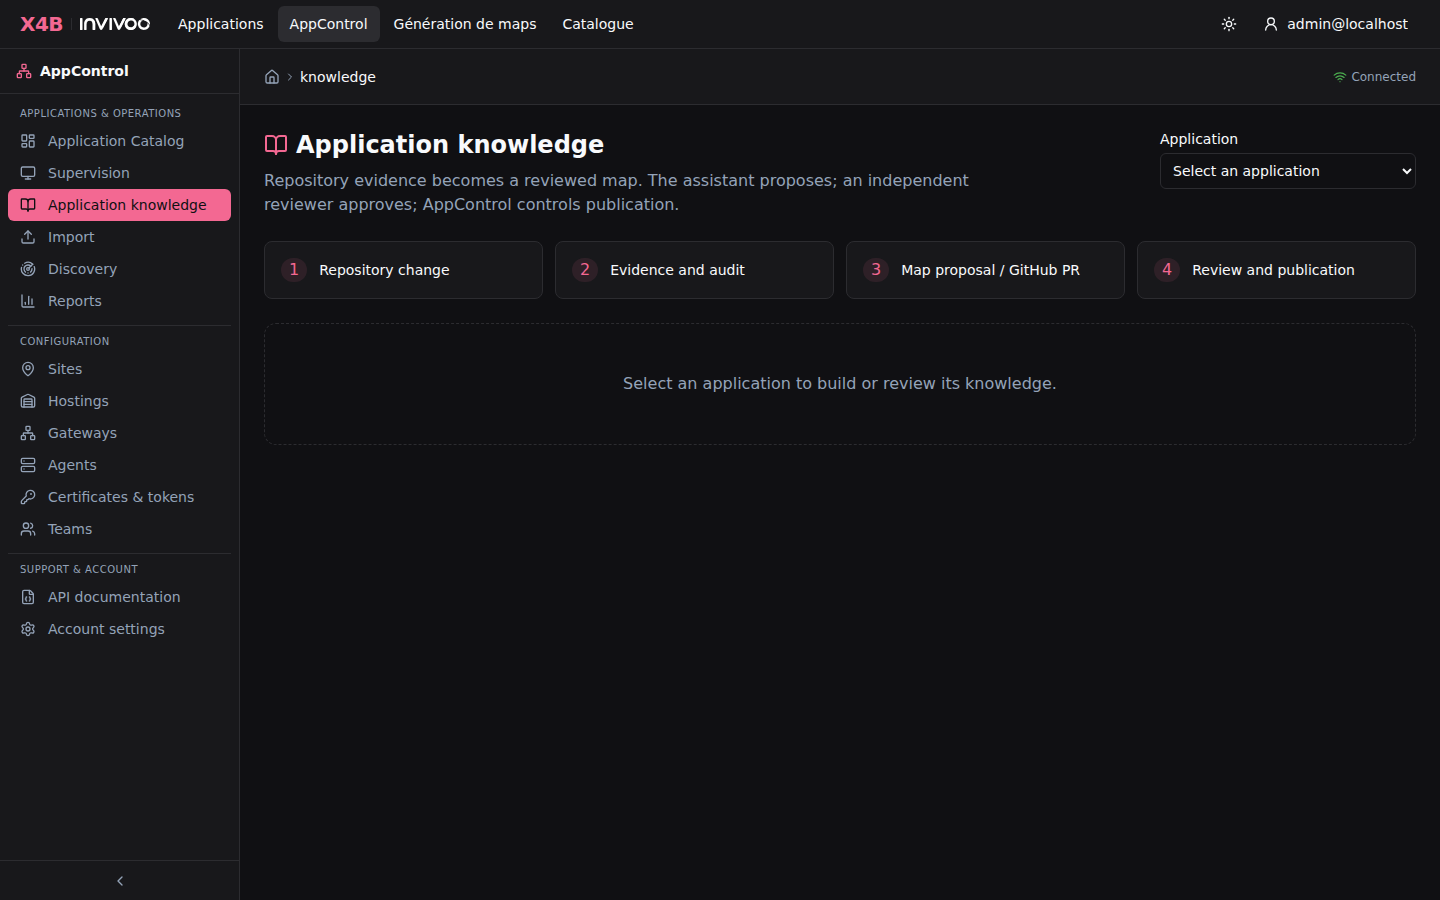
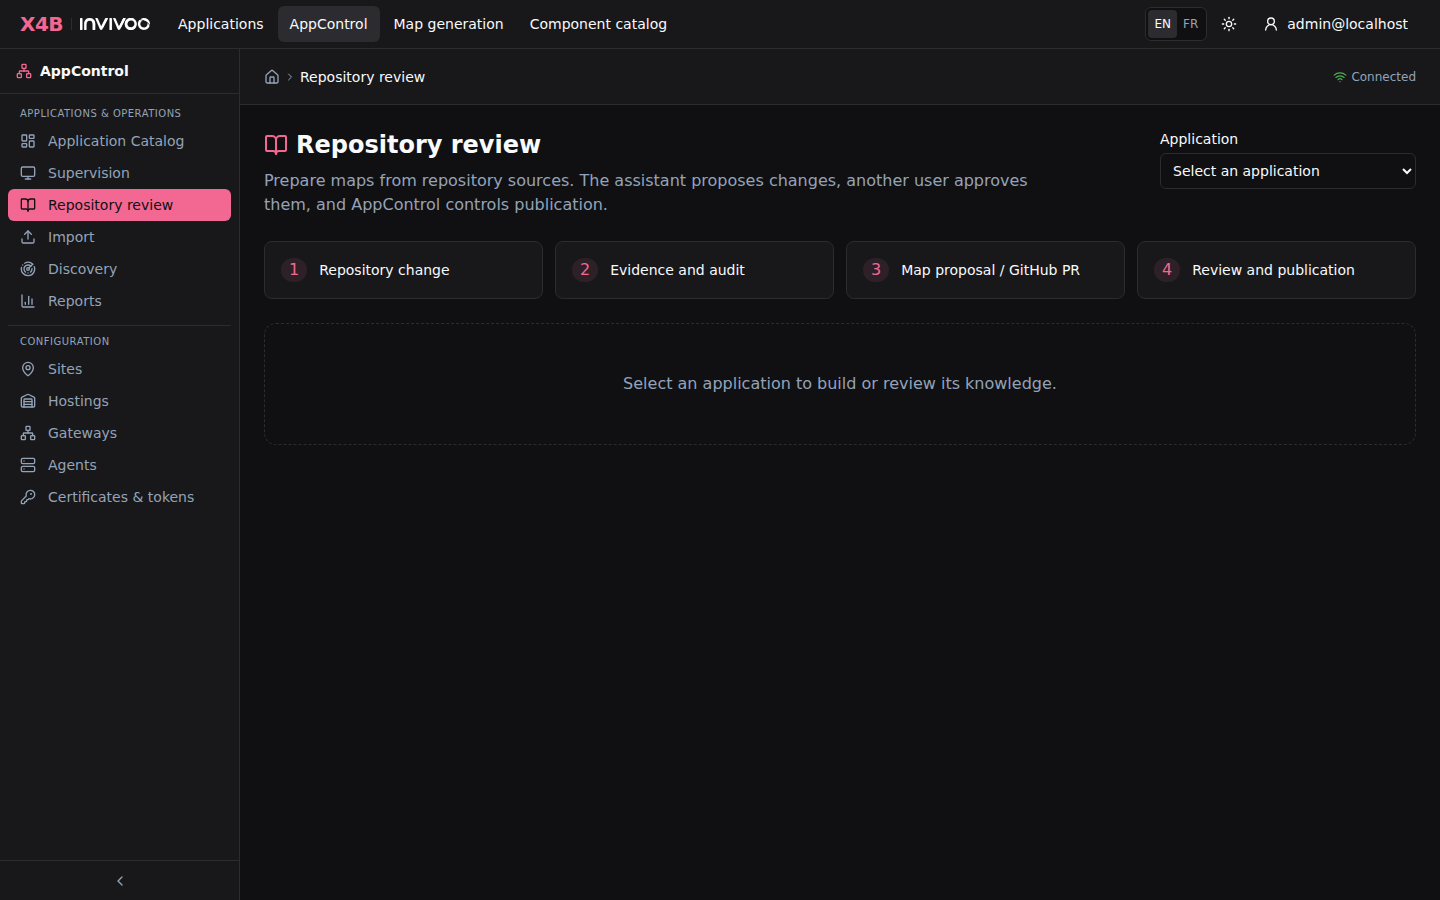
Release v1.24.9 — docs, scripts, examples

diff --git a/docs/X4B-PLATEFORME.fr.md b/docs/X4B-PLATEFORME.fr.md
@@ -25,12 +25,13 @@ Pour un POC avec un portail documentaire, créer un compte administrateur de rev
 
 | Route du portail | Appel serveur X4B/AppControl |
 | --- | --- |
-| `GET /x4b/session` | `POST /api/v1/x4b/session` retourne le compte et ses entrées de navigation. |
+| `GET /x4b/session` | `POST /api/v1/x4b/session` retourne le compte, ses entrées de navigation et la préférence de langue. |
+| `PUT /x4b/settings` | Le bandeau envoie `{"language":"fr"}` ou `{"language":"en"}`. Le portail vérifie l’origine et la session, puis appelle `POST /api/v1/x4b/session/settings` avec `client_id`, `client_secret`, `session_token` et `language`. Transmettre la réponse `{"language":"fr"}` ou `{"language":"en"}`. |
 | `POST /x4b/logout` | `POST /api/v1/x4b/session/revoke` révoque la session partagée, puis le portail efface sa session locale. Vérifier l’origine du POST. |
 | `GET /fiches/<id>/status` | `POST /api/v1/x4b/embedded/status` avec `credentials` et `source_id`. Renvoie l’état agrégé, la dernière observation et l’indicateur de fraîcheur. Une map absente ou non autorisée donne `404`. |
 | `POST /fiches/<id>/simulation` | `POST /api/v1/x4b/embedded/simulation` avec les mêmes champs et éventuellement `simulation_site_id`. Affecter la réponse à la propriété JavaScript `session` du composant map. Vérifier l’origine du POST. |
 
-`GET /x4b/session` renvoie au bandeau les champs `user` et `modules` issus de
+`GET /x4b/session` renvoie au bandeau les champs `user`, `modules` et `settings` issus de
 la réponse serveur X4B. Chaque entrée de `modules` contient `key`, `name` et
 `entry_url`. X4B calcule la liste selon les droits du compte connecté. Le
 bandeau ajoute **Catalogue** lorsque **AppControl** figure dans cette liste.
@@ -47,10 +48,45 @@ L’hôte de référence `demo-rebuild/embedded/x4b_host.py` contient deux fiche
 
 Si le certificat de X4B est signé par une autorité interne, configurer `X4B_CA_FILE` avec la chaîne de confiance PEM sur le serveur de l’hôte de référence. Le navigateur doit lui aussi faire confiance à l’autorité utilisée par les deux sites.
 
+### Langue du bandeau et de l’application hôte
+
+Le bandeau utilise la préférence `settings.language` du compte X4B dès qu’il
+reçoit la session. En l’absence de préférence, il utilise la langue déclarée
+dans l’attribut `lang` de la page hôte si elle est prise en charge, puis celle du
+navigateur. Le sélecteur change la langue du bandeau et enregistre le choix sur le
+compte pour les applications raccordées. Si la route locale porte un autre nom,
+indiquez son chemin de même origine dans l’attribut `settings-endpoint` de
+`<x4b-shell>`. Les identifiants et secrets de l’échange restent côté serveur.
+
+L’application hôte peut réutiliser son mécanisme de traduction en écoutant
+l’événement `x4b-language-change`. Le bandeau fournit `event.detail.language`
+à l’initialisation et lors des changements. La propriété en lecture seule
+`shell.language` permet de récupérer la valeur si le script est chargé après
+l’initialisation. Appliquez la valeur à vos propres traductions, puis mettez à
+jour la langue déclarée pour la page.
+
+```js
+const shell = document.querySelector('x4b-shell');
+function applyLanguage(language) {
+  setApplicationLanguage(language);
+  document.documentElement.lang = language;
+}
+shell?.addEventListener('x4b-language-change', (event) => {
+  applyLanguage(event.detail.language);
+});
+if (shell?.language) applyLanguage(shell.language);
+```
+
 ## Catalogue complet et génération
 
 Le catalogue appartient à AppControl. Les entrées acceptent `match_terms` (ou `keys` sur les exports existants). Le kit Windows envoie les entrées par lots. Chaque lot respecte les limites de la requête, sans plafond total sur le catalogue configuré. Pour enrichir une entrée déjà importée, utiliser le mode `upsert` de l’API catalogue avec une prévisualisation `dry_run` puis l’`expected_digest` obtenu. Le kit Windows conserve le mode ajout pour préserver les entrées existantes.
 
 Quand le catalogue est renseigné, X4B demande d’abord à l’IA du client les termes observés dans le document. X4B recherche ces termes dans toutes les entrées du catalogue. Le second appel utilise la même révision du document et reçoit les candidats par composant. Les commandes et variables du catalogue ne sont pas envoyées au moteur de génération. La revue indique les rapprochements ambigus et inconnus, avec les candidats trouvés. Ces propositions nécessitent une confirmation individuelle. Une modification du catalogue rend caduques les propositions fondées sur son état antérieur.
+
+Pour les ordonnanceurs, indiquez dans les sources le produit et le rôle précis de la brique, par exemple **Control-M Agent**. Le rapprochement reconnaît aussi les variantes du nom de produit, comme **VTOM** et **Visual TOM**. Lorsque le document nomme le produit et que le catalogue ne contient qu’une variante, X4B peut la suggérer pour confirmation. Le rôle d’ordonnancement aide à organiser le graphe. Les liens restent fondés sur les flux et prérequis documentés.
+
+Dans l’aperçu, utilisez **Organiser automatiquement** pour disposer les prérequis et les composants qui en dépendent. Vous pouvez aussi déplacer les composants à la souris et enregistrer leur disposition dans la proposition avant de la publier.
+
+Lors de la première publication, le site primaire sert de site par défaut pour les composants dont le site reste à déterminer. L’assistant propose un agent lorsqu’il trouve une correspondance unique ou un seul agent éligible. Si vous choisissez un site secondaire, renseignez les agents de chaque composant sur les deux sites. La publication enregistre un profil de secours inactif. Les commandes et les conditions de bascule restent à vérifier avant utilisation.
 
 Le contrat [Knowledge Engine](KNOWLEDGE-ENGINE-CONNECTOR.fr.md) est conservé. Le point de terminaison `prompt-executions` doit pouvoir appliquer le prompt reçu, y compris quand le résultat demandé est un inventaire de composants. Le moteur de génération reste celui du client.

diff --git a/docs/security-reports/SECURITY-ASSURANCE-REPORT-v1.24.9.md b/docs/security-reports/SECURITY-ASSURANCE-REPORT-v1.24.9.md
@@ -1,8 +1,8 @@
-# AppControl v1.24.7 — release qualification report
+# AppControl v1.24.9 — release qualification report
 
-Generated: 2026-11-16T12:20:22.415339+00:00
-Source commit: `155019de73a048cefd372f5c83e4120ae67120b3`
-Release: https://github.com/xcomponent/appcontrol-release/releases/tag/vv1.24.7
+Generated: 2026-11-17T06:10:26.527695+00:00
+Source commit: `4ae2617e77fc871fc8d86d49df0d37c4c22455cc`
+Release: https://github.com/xcomponent/appcontrol-release/releases/tag/vv1.24.9
 
 ## Scope and result
 
@@ -13,22 +13,22 @@ The OpenShift client kit targets Linux amd64. Its five images are backend, front
 ## Vulnerability scans and inventories
 
 Trivy 0.76.1 scans OS and application packages at all severities (UNKNOWN, LOW, MEDIUM, HIGH, CRITICAL), including unfixed advisories. Image scans use comprehensive detection. A scan with missing inventory, known vulnerabilities or suppressed findings fails the release. Each image has its own CycloneDX SBOM. The locked Rust and npm dependencies have an additional SBOM including development dependencies.
-Source vulnerability database updated: 2026-11-16T07:10:39.763774809Z. Per-image scanner metadata records the database used for that scan.
+Source vulnerability database updated: 2026-11-16T18:50:18.311537747Z. Per-image scanner metadata records the database used for that scan.
 
 | Image | Qualified image and digest | Findings | Scan timestamp |
 |---|---|---:|---|
-| backend | `appcontrol-backend@sha256:e0348c0b47fca6ee60fc1dea6bbc41eaabc7dc88c6ecc1be499914d60267133b` | 0 | 2026-11-16T11:43:01.252044693Z |
-| frontend | `appcontrol-frontend@sha256:dd120dff4b4c6def1fba5109bb2d8a1462de8f248285e98e2d2696dbe318d3e8` | 0 | 2026-11-16T11:43:04.288680918Z |
-| gateway | `appcontrol-gateway@sha256:aa3e5898dc4dbf0c6b9d5fe7d6d1c17b3277be73686e8264c5ea8b3e5deb4f0d` | 0 | 2026-11-16T11:42:59.722272987Z |
-| agent | `appcontrol-agent@sha256:248bf836493e414a5f646a1d5eb6d0033c858841db23020ba504b756548aa6f6` | 0 | 2026-11-16T11:43:02.212637886Z |
-| postgresql | `appcontrol-postgresql@sha256:ccfdd0dbfda349b0b278b183cedf00465e8d920db19299a15bd0e4c7159af8b6` | 0 | 2026-11-16T11:42:58.489576077Z |
-| init-certs | `appcontrol-init-certs@sha256:e85367e306b3d997134f2579b79c7798dfc35fd2c08dd0aa08c9c8f0965a35d0` | 0 | 2026-11-16T11:42:51.859934482Z |
-| azure-gateway | `appcontrol-azure-gateway@sha256:f8984b1dcf43c6ff1a6e3ee7bb7058f38052c547df5a1326cc7a6ba54a16e354` | 0 | 2026-11-16T11:43:03.056220367Z |
+| backend | `appcontrol-backend@sha256:37a8cb129280a96d1decdee95d0c0c7fa2a21f5a974e465269aecc7db539cd2a` | 0 | 2026-11-17T06:02:59.080344292Z |
+| frontend | `appcontrol-frontend@sha256:bd9059138acc90ec83bf2100a4f35e2eac5b5c03105f1731198ab1b79f80c1e6` | 0 | 2026-11-17T06:02:55.862886585Z |
+| gateway | `appcontrol-gateway@sha256:fde95c7901daf375b2806ee61c2cedc572fba339b38f01e356f9b5abc188103e` | 0 | 2026-11-17T06:02:56.375193917Z |
+| agent | `appcontrol-agent@sha256:e3f9a43710a9678b05f01c7eb778e586eabfa2ae40315daacdce2bed71c43054` | 0 | 2026-11-17T06:02:57.527351363Z |
+| postgresql | `appcontrol-postgresql@sha256:c1f63ec5f6b4e3a1ff76e55dc04cfa420081440ce44063b40438a7ba48bac871` | 0 | 2026-11-17T06:03:04.466524296Z |
+| init-certs | `appcontrol-init-certs@sha256:2094ea60650ed67cf16e1835103a0510f8af38c849a1ca02103bb237fd18037e` | 0 | 2026-11-17T06:02:57.996814052Z |
+| azure-gateway | `appcontrol-azure-gateway@sha256:8e50d4e20b22cf58b5fcd2e06c0b6b11f5228321685524d34ac5ac36a6f90e2a` | 0 | 2026-11-17T06:03:00.021609702Z |
 
 | Dependency scope | Inputs | Findings | Scan timestamp |
 |---|---|---:|---|
-| Production dependencies | Cargo.lock + frontend/package-lock.json | 0 | 2026-11-16T11:24:27.869708815Z |
-| Production and development dependencies | Cargo.lock + frontend/package-lock.json | 0 | 2026-11-16T11:24:32.62169278Z |
+| Production dependencies | Cargo.lock + frontend/package-lock.json | 0 | 2026-11-16T23:29:31.289585482Z |
+| Production and development dependencies | Cargo.lock + frontend/package-lock.json | 0 | 2026-11-16T23:29:44.555999993Z |
 
 RustSec: zero vulnerability advisories. Informational warnings, if any, remain in rustsec.json and are not reclassified as vulnerabilities.
 RustSec warning categories: unmaintained: 2, unsound: 1, yanked: 1.

diff --git a/docs/qualification/INSTALLATION-WINDOWS.fr.md b/docs/qualification/INSTALLATION-WINDOWS.fr.md
@@ -8,7 +8,7 @@ léger ne contient **aucune image ni aucun exécutable**. Il n’installe pas `o
 ne modifie pas le PATH du poste. Aucun Helm, Docker, Python, WSL, OpenSSL ou outil
 de transfert d’images n’est nécessaire sur le poste client.
 
-Produit : **AppControl 1.24.7**. Paquet : **Windows léger 1.24.7-1**.
+Produit : **AppControl 1.24.9**. Paquet : **Windows léger 1.24.9-1**.
 
 **AppControl est le module d’exploitation de X4B — XComponent for Business, édité par INVIVOO.** La plateforme inclut [l’accueil X4B, les comptes et accès, le badge de supervision et le raccordement des applications](../X4B-PLATEFORME.fr.md). Le module de génération rapproche les composants du catalogue complet. Le kit conserve le choix de l’URL publique, du compte administrateur et du projet, ainsi que le secret de téléchargement des images.
 
@@ -265,14 +265,14 @@ avec `-ModePostgreSQL Externe` et sa chaîne de connexion.
 
 ## 4. Télécharger les petits fichiers de déploiement
 
-- [Paquet Windows léger 1.24.7-1 — scripts et YAML](https://github.com/xcomponent/appcontrol-release/releases/download/v1.24.7/appcontrol-openshift-windows-light-1.24.7-1.zip)
-- [Empreinte SHA-256](https://github.com/xcomponent/appcontrol-release/releases/download/v1.24.7/appcontrol-openshift-windows-light-1.24.7-1.zip.sha256)
+- [Paquet Windows léger 1.24.9-1 — scripts et YAML](https://github.com/xcomponent/appcontrol-release/releases/download/v1.24.9/appcontrol-openshift-windows-light-1.24.9-1.zip)
+- [Empreinte SHA-256](https://github.com/xcomponent/appcontrol-release/releases/download/v1.24.9/appcontrol-openshift-windows-light-1.24.9-1.zip.sha256)
 
 Le ZIP est uniquement un moyen pratique de transporter les fichiers texte.
 Après téléchargement ou transfert approuvé, vérifier l’archive dans PowerShell :
 
 ```powershell
-$archive = 'appcontrol-openshift-windows-light-1.24.7-1.zip'
+$archive = 'appcontrol-openshift-windows-light-1.24.9-1.zip'
 $attendu = ((Get-Content "$archive.sha256" -Raw).Trim() -split '\s+')[0]
 if ((Get-FileHash $archive -Algorithm SHA256).Hash -ne $attendu) {
     throw 'Checksum mismatch: do not use this archive.'
@@ -836,7 +836,7 @@ le dossier d’état d’origine pour terminer la mise à jour.
 
 ## Qualification et suite du POC
 
-La publication du kit 1.24.7-1 suit sa qualification Windows/OpenShift. Les fichiers `PUBLICATION-EVALUATION-1.24.7-1.json` et `QUALIFICATION-EVALUATION-1.24.7-1.zip` identifient les images et le ZIP de cette recette.
+La publication du kit 1.24.9-1 suit sa qualification Windows/OpenShift. Les fichiers `PUBLICATION-EVALUATION-1.24.9-1.json` et `QUALIFICATION-EVALUATION-1.24.9-1.zip` identifient les images et le ZIP de cette recette.
 
 ### Historique des qualifications
 
@@ -1215,7 +1215,7 @@ le domaine était la cause de l’erreur d’exposition.
 
 ## Démonstration bancaire complète
 
-**Le kit 1.24.7-1 installe automatiquement la démo bancaire lors d’une installation
+**Le kit 1.24.9-1 installe automatiquement la démo bancaire lors d’une installation
 par défaut**, après la vérification technique et l’enrôlement de l’agent Linux.
 Aucune seconde commande n’est nécessaire. `-SansDemo` désactive les deux démonstrations ;
 une mise à jour avec `-MettreAJour` conserve les applications existantes sans en ajouter.

diff --git a/docs/MAP_GENERATION.fr.md b/docs/MAP_GENERATION.fr.md
@@ -32,7 +32,7 @@ Les composants ordinaires restent dans une liste plate : le contrat actuel ne pe
 
 Cette fonctionnalité nécessite une version d’AppControl qui expose les routes décrites ci-dessous. Si la récupération retourne `404`, l’instance installée doit être mise à jour ; un prompt récupéré sur une autre version ne remplace pas cette mise à jour.
 
-**Pour essayer la validation et l’import**, ouvrez **API documentation** dans AppControl, ou `/api-docs` sur la même instance. Le schéma des **maps** est fourni dans `json_schema` par le contrat récupéré avec le client HTTP. [Parcours Swagger](SWAGGER.fr.md)
+**Pour essayer la validation et l’import**, ouvrez **Documentation API** dans le menu de compte du bandeau X4B, ou `/api-docs` sur la même instance. Le schéma des **maps** est fourni dans `json_schema` par le contrat récupéré avec le client HTTP. [Parcours Swagger](SWAGGER.fr.md)
 
 ## 1. Récupérer le prompt et conserver un cache
 
@@ -316,7 +316,7 @@ Chaque élément du lot est une enveloppe complète comme l'exemple précédent.
 
 ### Créer les équipes et attribuer les applications
 
-Dans **Teams**, créez par exemple « Exploitation Paiements », ajoutez ses membres, puis ouvrez son onglet **Applications** pour attribuer une application et choisir le niveau `view`, `operate`, `edit`, `manage` ou `owner`. Le partage depuis la fiche de l'application reste disponible. Gérer une équipe ne donne pas automatiquement le droit de partager toutes les applications : l'acteur doit avoir au moins `manage` sur l'application et ne peut accorder un niveau supérieur au sien.
+Ouvrez **Équipes** dans le menu de compte du bandeau X4B. Créez par exemple « Exploitation Paiements », ajoutez ses membres, puis ouvrez son onglet **Applications** pour attribuer une application et choisir le niveau `view`, `operate`, `edit`, `manage` ou `owner`. Pour partager une application depuis cet écran ou depuis sa fiche, l’acteur doit avoir au moins `manage` sur l’application. Il peut accorder un niveau jusqu’au sien.
 
 Pour automatiser, créez l'équipe et ses membres une fois via `/teams` et `/teams/{id}/members`, avec une identité autorisée. Conservez son UUID côté intégration. L'enveloppe `team_grants` associe ensuite les nouvelles applications aux équipes au moment de l'import, avec un niveau explicite et une expiration facultative. Les équipes ne sont ni des groupes graphiques, ni des champs de la map générée par l'IA. Une application peut être attribuée à plusieurs équipes.
 

diff --git a/docs/X4B-ACCESS.fr.md b/docs/X4B-ACCESS.fr.md
@@ -38,9 +38,15 @@ chemin de la même origine.
 | Appel | Comportement |
 | --- | --- |
 | `GET /api/v1/x4b/authorize?client_id=…&state=…&code_challenge=…` | Le navigateur présente sa session X4B. X4B vérifie le compte et l’accès au module puis renvoie un code et l’état à l’URL de retour enregistrée. La méthode de défi est S256. |
-| `POST /api/v1/x4b/token` | Le serveur hôte vérifie l’état reçu puis envoie le JSON `{client_id,client_secret,code,code_verifier}`. Le code est valable une minute et s’utilise une seule fois. La réponse contient `session_token`, `expires_in` en secondes et `user` avec `user_id` et `email`. |
-| `POST /api/v1/x4b/session` | Le serveur hôte envoie le JSON `{client_id,client_secret,session_token}`. X4B vérifie le compte, l’accès au module, l’expiration et la session X4B d’origine. La réponse contient `user` et `modules`. |
+| `POST /api/v1/x4b/token` | Le serveur hôte vérifie l’état reçu puis envoie le JSON `{client_id,client_secret,code,code_verifier}`. Le code est valable une minute et s’utilise une seule fois. La réponse contient `session_token`, `expires_in` en secondes, `user` avec `user_id` et `email`, ainsi que `settings`. |
+| `POST /api/v1/x4b/session` | Le serveur hôte envoie le JSON `{client_id,client_secret,session_token}`. X4B vérifie le compte, l’accès au module, l’expiration et la session X4B d’origine. La réponse contient `user`, `modules` et `settings`. |
+| `POST /api/v1/x4b/session/settings` | Le serveur hôte ajoute `language` aux champs de la requête de session. X4B effectue les mêmes vérifications, enregistre la préférence de langue sur le compte et retourne `{"language":"fr"}` ou `{"language":"en"}`. |
 | `POST /api/v1/x4b/session/revoke` | Sur déconnexion explicite et protégée du site hôte, le serveur envoie les mêmes champs. X4B révoque la session d’origine et ses sessions associées. |
+
+Dans les réponses d’échange et de session, `settings.language` vaut `fr` ou
+`en` si le compte a enregistré une préférence. Le champ est absent tant
+qu’aucune langue n’a été enregistrée. Le [guide du bandeau](X4B-PLATEFORME.fr.md#langue-du-bandeau-et-de-lapplication-hôte)
+décrit les routes à exposer sur le portail hôte pour partager cette préférence.
 
 Les chemins relatifs des modules natifs se résolvent par rapport à l’URL publique
 de X4B configurée sur le serveur hôte. L’accueil X4B et les modules natifs

diff --git a/docs/SWAGGER.fr.md b/docs/SWAGGER.fr.md
@@ -1,6 +1,6 @@
 # Essayer les API avec Swagger UI
 
-AppControl embarque une page de documentation interactive : **API documentation** dans le menu, ou **`https://<votre-instance>/api-docs`**. Elle affiche les routes décrites par la version installée et permet d’essayer les requêtes. Les fichiers de Swagger UI sont livrés avec l’interface ; aucune ressource Swagger hébergée à l’extérieur n’est nécessaire.
+Ouvrez **Documentation API** dans le menu de compte du bandeau X4B, ou accédez directement à **`https://<votre-instance>/api-docs`**. Swagger affiche les routes de la version installée et permet d’essayer les requêtes. Les fichiers de Swagger UI sont livrés avec l’interface.
 
 Le parcours de génération et de publication décrit ici est disponible à partir
 d'**AppControl 1.21.1**. Installer le serveur et l'interface de la même release ;
@@ -11,7 +11,7 @@ Swagger décrit les opérations de validation et d’import des maps, avec leurs
 
 ## 1. Se connecter
 
-Ouvrez AppControl et connectez-vous normalement, puis ouvrez **API documentation**. Sur la même instance, votre session de navigateur sert aux appels.
+Connectez-vous à X4B avec un compte qui a accès à AppControl, puis ouvrez **Documentation API**. Sur la même instance, votre session de navigateur sert aux appels.
 
 Pour tester avec une clé API, utilisez **Authorize**, puis le champ `apiKeyAuth`. Saisissez **`ApiKey ` suivi de la clé**, par exemple `ApiKey <votre-clé>`. L’en-tête utilisé est `Authorization`, pas `X-API-Key`. L’option `bearerAuth` attend un JWT de session AppControl ; elle ne prend pas directement un jeton d’un fournisseur d’identité. Les identifiants saisis ne sont pas conservés après le rechargement de cette page.
 

diff --git a/docs/EMBEDDED.fr.md b/docs/EMBEDDED.fr.md
@@ -251,7 +251,8 @@ un portail documentaire** pour le fragment HTML et JavaScript.
 
 Le portail garde la clé dans sa configuration serveur. Le compte propriétaire
 de la clé doit pouvoir consulter la map et son site dans AppControl. Le profil
-choisi borne ce périmètre. Dans **API Keys → Create API Key**, utilisez le compte
+choisi borne ce périmètre. Dans le menu de compte du bandeau X4B, ouvrez
+**Clés API → Create API Key** et utilisez le compte
 de service du portail pour créer l’un des profils suivants.
 
 | Profil | Périmètre |
